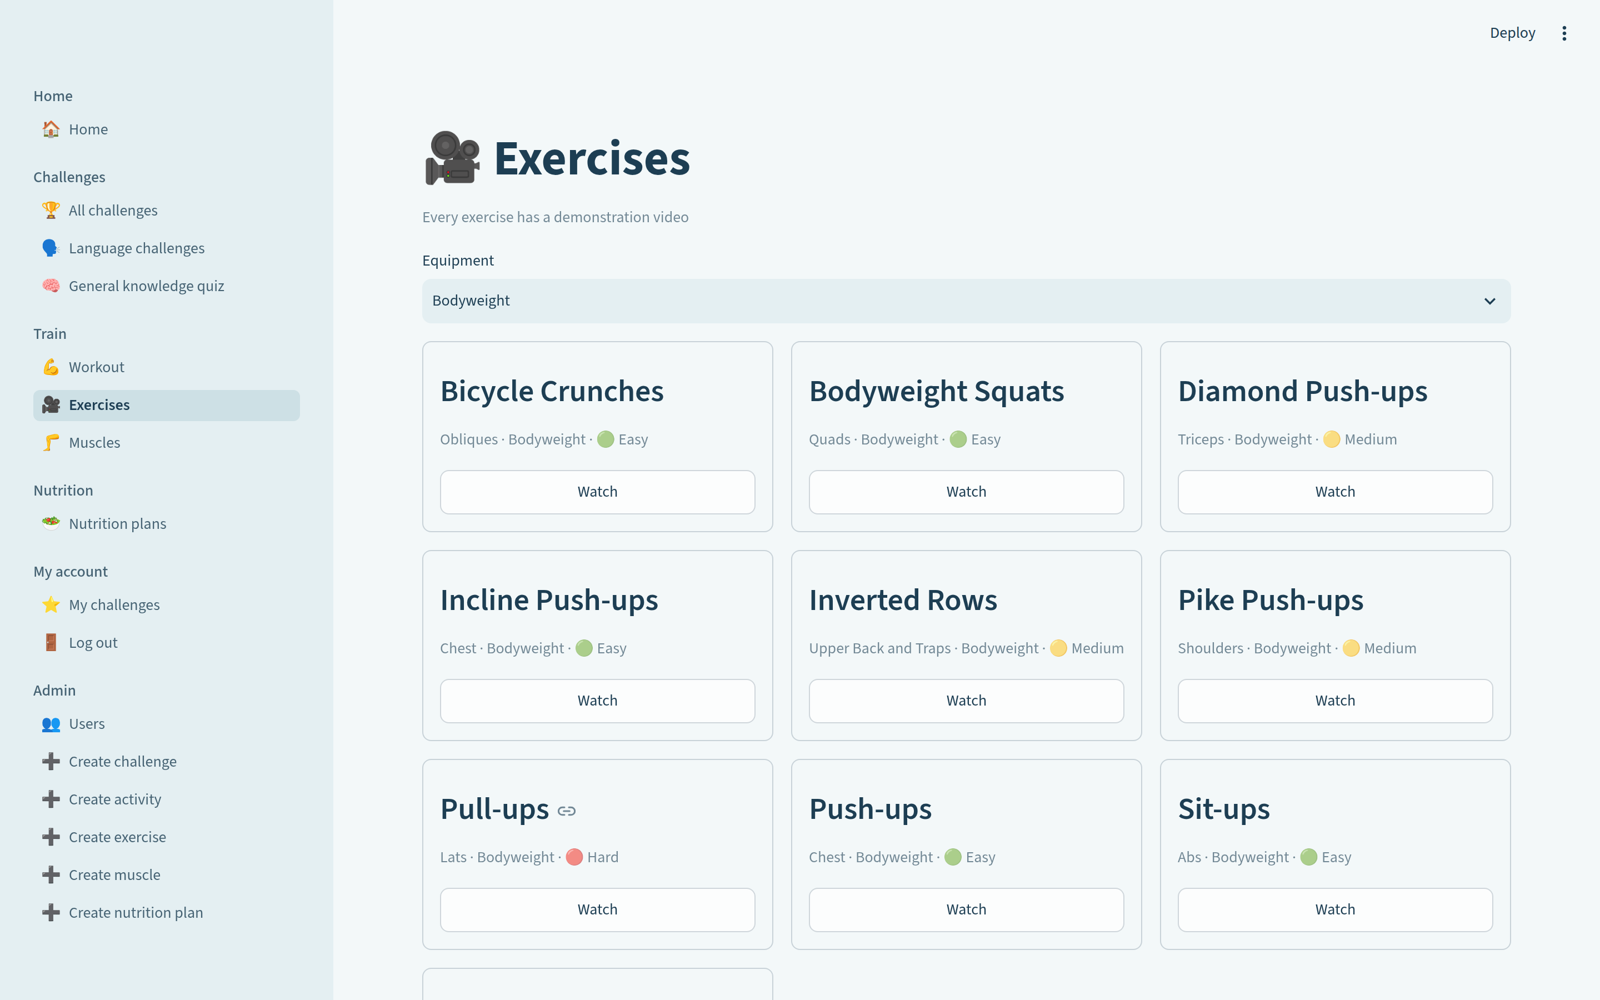
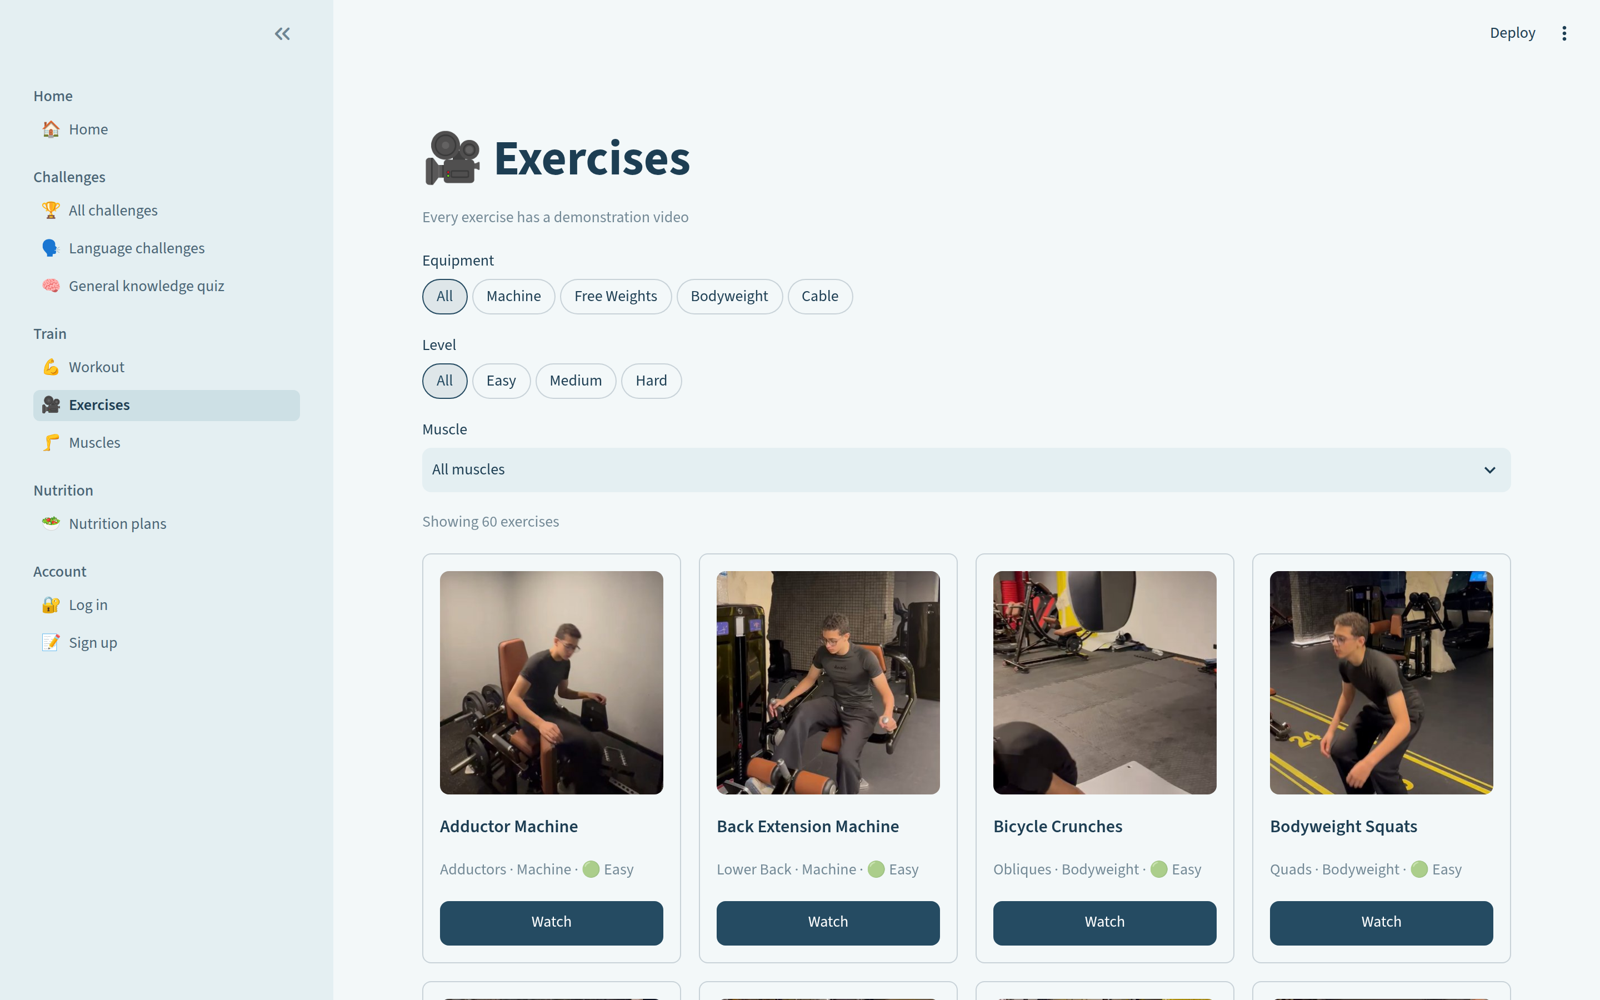
Redesign quiz and exercises pages, one button style
- Quiz: level pills, one question at a time with a progress bar, four
  answer buttons, right/wrong straight away, then score, review and
  Play again.
- Exercises: square picture cards (4 per row) from a frame of each
  video, pills for equipment and level, a muscle filter.
- New exercises.thumbnail_url column, filled in the seed; Create
  exercise gets a Thumbnail file box.
- Every button is the same filled teal and full width.
- Docs and screenshots updated.

closes #15

diff --git a/app_pages/general_knowledge.py b/app_pages/general_knowledge.py
@@ -6,6 +6,7 @@ from assets.config import DATABASE_PATH
 QUESTIONS_PER_QUIZ = 10
 # Score this many or more and you get balloons.
 GREAT_SCORE = 7
+LETTERS = ["A", "B", "C", "D"]
 
 
 def load_new_quiz(level):
@@ -23,71 +24,94 @@ def load_new_quiz(level):
         limit ?
     """, (level, QUESTIONS_PER_QUIZ)).fetchall()
     conn.close()
-    # Forget the answers from the last round.
-    for key in list(st.session_state.keys()):
-        if key.startswith("answer_"):
-            del st.session_state[key]
     st.session_state.quiz_level = level
     st.session_state.quiz_questions = questions
-    st.session_state.quiz_submitted = False
+    st.session_state.quiz_number = 0      # which question you are on (0 is the first)
+    st.session_state.quiz_answers = []    # the letter you picked for each question
+    st.session_state.quiz_just_finished = False
 
 
 st.title("🧠 General knowledge quiz")
-st.caption("Answer the questions, then see your score")
+st.caption("One question at a time. Pick an answer and see if you are right.")
 
-level = st.radio("Choose a level", ["Easy", "Medium", "Hard"], horizontal=True)
+level = st.pills("Level", ["Easy", "Medium", "Hard"], default="Easy", required=True)
 
-# A new level, or the very first visit, gets a fresh set of questions.
+# A new level, or the very first visit, starts a fresh quiz.
 if st.session_state.get("quiz_level") != level:
     load_new_quiz(level)
 
 questions = st.session_state.quiz_questions
+number = st.session_state.quiz_number
+answers = st.session_state.quiz_answers
 
 if len(questions) == 0:
     st.info("There are no questions for this level yet.")
     st.stop()
 
-with st.form("quiz"):
-    for question in questions:
-        options = [
-            "A. " + question["option_a"],
-            "B. " + question["option_b"],
-            "C. " + question["option_c"],
-            "D. " + question["option_d"],
-        ]
-        st.radio(question["question"], options, index=None, key=f"answer_{question['id']}")
-    submitted = st.form_submit_button("Submit answers", type="primary", width="stretch")
+if number < len(questions):
+    # Still answering: show one question.
+    question = questions[number]
+    answered = len(answers) > number
+    st.progress(number / len(questions), text=f"Question {number + 1} of {len(questions)}")
 
-if submitted:
-    st.session_state.quiz_submitted = True
+    with st.container(border=True):
+        st.subheader(question["question"])
+        cols = st.columns(2)
+        place = 0
+        for letter in LETTERS:
+            option = question["option_" + letter.lower()]
+            with cols[place % 2]:
+                # The buttons lock after you answer, so you can't change your mind.
+                if st.button(letter + ". " + option, key=f"pick_{question['id']}_{letter}",
+                             disabled=answered, type="primary", width="stretch"):
+                    # "answers" is the list kept in session_state, so this remembers your pick.
+                    answers.append(letter)
+                    st.rerun()
+            place = place + 1
 
-if st.session_state.quiz_submitted:
-    score = 0
-    for question in questions:
-        answer = st.session_state.get(f"answer_{question['id']}")
-        # An answer looks like "B. Paris", so its first letter is the choice.
-        if answer is not None and answer[0] == question["correct_answer"]:
-            score = score + 1
-
-    st.metric("Score", f"{score} / {len(questions)}")
-    if submitted and score >= GREAT_SCORE:
-        st.balloons()
-
-    for question in questions:
-        answer = st.session_state.get(f"answer_{question['id']}")
+    if answered:
         correct_letter = question["correct_answer"]
         correct_text = question["option_" + correct_letter.lower()]
+        if answers[number] == correct_letter:
+            st.success("✅ Right! " + correct_letter + ". " + correct_text + " is correct.")
+        else:
+            st.error("❌ Not quite. The answer is " + correct_letter + ". " + correct_text + ".")
+
+        if number + 1 < len(questions):
+            next_label = "Next question →"
+        else:
+            next_label = "See my score →"
+        if st.button(next_label, type="primary", width="stretch"):
+            st.session_state.quiz_number = number + 1
+            if number + 1 == len(questions):
+                st.session_state.quiz_just_finished = True
+            st.rerun()
+else:
+    # All questions answered: show the score and what you got right.
+    score = 0
+    for place in range(len(questions)):
+        if answers[place] == questions[place]["correct_answer"]:
+            score = score + 1
+
+    st.metric("Your score", f"{score} / {len(questions)}")
+    # Balloons only once, right after the last question.
+    if st.session_state.quiz_just_finished:
+        if score >= GREAT_SCORE:
+            st.balloons()
+        st.session_state.quiz_just_finished = False
+
+    for place in range(len(questions)):
+        question = questions[place]
+        correct_letter = question["correct_answer"]
+        picked_letter = answers[place]
         with st.container(border=True):
-            if answer is not None and answer[0] == correct_letter:
+            if picked_letter == correct_letter:
                 st.write("✅ " + question["question"])
             else:
                 st.write("❌ " + question["question"])
-            if answer is None:
-                st.write("Your answer: not answered")
-            else:
-                st.write("Your answer: " + answer)
-            st.write("Correct answer: " + correct_letter + ". " + correct_text)
+            st.write("Your answer: " + picked_letter + ". " + question["option_" + picked_letter.lower()])
+            st.write("Correct answer: " + correct_letter + ". " + question["option_" + correct_letter.lower()])
 
-if st.button("New quiz", width="stretch"):
-    load_new_quiz(level)
-    st.rerun()
+    if st.button("Play again", type="primary", width="stretch"):
+        load_new_quiz(level)
+        st.rerun()

diff --git a/app_pages/view_exercise.py b/app_pages/view_exercise.py
@@ -3,42 +3,60 @@ import streamlit as st
 from assets.config import DATABASE_PATH, LEVEL_ICONS
 
 EQUIPMENT_CHOICES = ["All", "Machine", "Free Weights", "Bodyweight", "Cable"]
+LEVEL_CHOICES = ["All", "Easy", "Medium", "Hard"]
 
 st.title("🎥 Exercises")
 st.caption("Every exercise has a demonstration video")
 
-# The Workout page may have picked an equipment type already (it sets "equipment_filter").
-equipment = st.selectbox("Equipment", EQUIPMENT_CHOICES, key="equipment_filter")
-
 conn = sqlite3.connect(DATABASE_PATH)
 conn.execute("PRAGMA foreign_keys = ON")
 conn.row_factory = sqlite3.Row
-if equipment == "All":
-    exercises = conn.execute("""
-        select exercises.*, muscles.name as muscle_name
-        from exercises join muscles on muscles.id = exercises.muscle_id
-        order by exercises.name
-    """).fetchall()
-else:
-    exercises = conn.execute("""
-        select exercises.*, muscles.name as muscle_name
-        from exercises join muscles on muscles.id = exercises.muscle_id
-        where exercises.equipment = ?
-        order by exercises.name
-    """, (equipment,)).fetchall()
+exercises = conn.execute("""
+    select exercises.*, muscles.name as muscle_name
+    from exercises join muscles on muscles.id = exercises.muscle_id
+    order by exercises.name
+""").fetchall()
+muscles = conn.execute("select name from muscles order by name").fetchall()
 conn.close()
 
-if len(exercises) == 0:
-    st.info("No exercises for this equipment yet.")
+# The Workout page may have picked an equipment type already (it sets "equipment_filter").
+if "equipment_filter" not in st.session_state:
+    st.session_state.equipment_filter = "All"
+equipment = st.pills("Equipment", EQUIPMENT_CHOICES, required=True, key="equipment_filter")
+level = st.pills("Level", LEVEL_CHOICES, default="All", required=True)
 
-cols = st.columns(3)
-number = 0
+muscle_choices = ["All muscles"]
+for muscle in muscles:
+    muscle_choices.append(muscle["name"])
+muscle_name = st.selectbox("Muscle", muscle_choices)
+
+# Keep only the exercises that match every filter.
+shown = []
 for exercise in exercises:
-    with cols[number % 3]:
+    if equipment != "All" and exercise["equipment"] != equipment:
+        continue
+    if level != "All" and exercise["difficulty"] != level:
+        continue
+    if muscle_name != "All muscles" and exercise["muscle_name"] != muscle_name:
+        continue
+    shown.append(exercise)
+
+st.caption(f"Showing {len(shown)} exercises")
+if len(shown) == 0:
+    st.info("No exercises match these filters. Try picking All.")
+
+cols = st.columns(4)
+number = 0
+for exercise in shown:
+    with cols[number % 4]:
         with st.container(border=True):
-            st.subheader(exercise["name"])
+            if exercise["thumbnail_url"]:
+                st.image(exercise["thumbnail_url"], width="stretch")
+            else:
+                st.caption("No picture yet")
+            st.markdown(f"**{exercise['name']}**")
             st.caption(f"{exercise['muscle_name']} · {exercise['equipment']} · {LEVEL_ICONS[exercise['difficulty']]} {exercise['difficulty']}")
-            if st.button("Watch", key=f"watch_{exercise['id']}", width="stretch"):
+            if st.button("Watch", key=f"watch_{exercise['id']}", type="primary", width="stretch"):
                 st.session_state.selected_exercise_id = exercise["id"]
                 st.switch_page("app_pages/exercise_details.py")
     number = number + 1

diff --git a/app_pages/home.py b/app_pages/home.py
@@ -8,19 +8,19 @@ with col1:
     st.subheader("🏋 Sports")
     st.image("assets/sport_challenge.png", width="stretch", caption="Stay fit and active")
     st.write("Daily physical activities to boost your energy and improve your fitness level.")
-    if st.button("Start sports challenge", width="stretch"):
+    if st.button("Start sports challenge", type="primary", width="stretch"):
         st.switch_page("app_pages/view_challenges.py")
 with col2:
     st.subheader("🗣 Language")
     st.image("assets/language_challenge.png", width="stretch", caption="Expand your vocabulary")
     st.write("Daily words and phrases in English, French and German.")
-    if st.button("Start language challenge", width="stretch"):
+    if st.button("Start language challenge", type="primary", width="stretch"):
         st.switch_page("app_pages/language_challenge.py")
 with col3:
     st.subheader("🧠 General knowledge")
     st.image("assets/General-Knowledge.jpg", width="stretch", caption="Expand your knowledge")
     st.write("Daily facts and trivia to boost your general knowledge.")
-    if st.button("Start the quiz", width="stretch"):
+    if st.button("Start the quiz", type="primary", width="stretch"):
         st.switch_page("app_pages/general_knowledge.py")
 
 st.divider()
@@ -28,10 +28,10 @@ st.divider()
 st.subheader("More ways to train")
 col1, col2 = st.columns(2)
 with col1:
-    if st.button("🏋 Workout by equipment", width="stretch"):
+    if st.button("🏋 Workout by equipment", type="primary", width="stretch"):
         st.switch_page("app_pages/workout.py")
 with col2:
-    if st.button("💪 See all exercises", width="stretch"):
+    if st.button("💪 See all exercises", type="primary", width="stretch"):
         st.switch_page("app_pages/view_exercise.py")
 
 st.markdown("""

diff --git a/app_pages/create_exercise.py b/app_pages/create_exercise.py
@@ -24,6 +24,7 @@ with col1:
 with col2:
     difficulty = st.selectbox("Difficulty", ["Easy", "Medium", "Hard"])
     video_url = st.text_input("Video file", placeholder="videos/pushups.mp4")
+    thumbnail_url = st.text_input("Thumbnail file", placeholder="assets/thumbnails/pushups.jpg")
 description = st.text_area("Description", height=150)
 
 if st.button("Create exercise", type="primary", width="stretch"):
@@ -33,8 +34,8 @@ if st.button("Create exercise", type="primary", width="stretch"):
         conn = sqlite3.connect(DATABASE_PATH)
         conn.execute("PRAGMA foreign_keys = ON")
         conn.execute(
-            "insert into exercises (muscle_id, name, description, equipment, difficulty, video_url) values (?, ?, ?, ?, ?, ?)",
-            (muscle_ids[muscle_name], name, description, equipment, difficulty, video_url),
+            "insert into exercises (muscle_id, name, description, equipment, difficulty, video_url, thumbnail_url) values (?, ?, ?, ?, ?, ?, ?)",
+            (muscle_ids[muscle_name], name, description, equipment, difficulty, video_url, thumbnail_url),
         )
         conn.commit()
         conn.close()

diff --git a/app_pages/view_challenges.py b/app_pages/view_challenges.py
@@ -29,7 +29,7 @@ for challenge in challenges:
         with st.container(border=True):
             st.subheader(challenge["name"])
             st.caption(f"{challenge['category']} · {challenge['duration']} days · {challenge['activity_count']} activities")
-            if st.button("Open", key=f"open_{challenge['id']}", width="stretch"):
+            if st.button("Open", key=f"open_{challenge['id']}", type="primary", width="stretch"):
                 st.session_state.selected_challenge_id = challenge["id"]
                 st.switch_page("app_pages/challenge_details.py")
     number = number + 1

diff --git a/app_pages/view_nutrition_plan.py b/app_pages/view_nutrition_plan.py
@@ -42,7 +42,7 @@ for plan in plans:
             if plan["id"] == my_plan_id:
                 st.success("This is your plan.")
             elif "user_id" in st.session_state:
-                if st.button("Choose this plan", key=f"choose_{plan['id']}", width="stretch"):
+                if st.button("Choose this plan", key=f"choose_{plan['id']}", type="primary", width="stretch"):
                     # Every user has one plan, so remove the old one before saving the new one.
                     conn = sqlite3.connect(DATABASE_PATH)
                     conn.execute("PRAGMA foreign_keys = ON")

diff --git a/app_pages/workout.py b/app_pages/workout.py
@@ -19,7 +19,7 @@ for equipment in EQUIPMENT_TYPES:
             st.image(equipment[1], width="stretch")
             st.subheader(equipment[2])
             st.caption(equipment[3])
-            if st.button("Show exercises", key=f"show_{equipment[0]}", width="stretch"):
+            if st.button("Show exercises", key=f"show_{equipment[0]}", type="primary", width="stretch"):
                 # The Exercises page reads this to show only this equipment.
                 st.session_state.equipment_filter = equipment[0]
                 st.switch_page("app_pages/view_exercise.py")

diff --git a/app_pages/language_challenge.py b/app_pages/language_challenge.py
@@ -38,7 +38,7 @@ for challenge in challenges:
         st.image(get_challenge_image(challenge["name"], challenge["category"]), width="stretch")
         st.subheader(challenge["name"])
         st.caption(f"{challenge['activity_count']} activities")
-        if st.button("Open", key=f"open_{challenge['id']}", width="stretch"):
+        if st.button("Open", key=f"open_{challenge['id']}", type="primary", width="stretch"):
             st.session_state.selected_challenge_id = challenge["id"]
             st.switch_page("app_pages/challenge_details.py")
     number = number + 1

diff --git a/app_pages/view_muscles.py b/app_pages/view_muscles.py
@@ -32,6 +32,6 @@ for muscle in muscles:
                 st.write(f"**Ends at:** {muscle['insertion'] or 'unknown'}")
                 st.write(f"**Type:** {muscle['muscle_type'] or 'unknown'}")
                 st.write(f"**Difficulty to train:** {muscle['difficulty_to_train'] or 'unknown'}")
-            if st.button("Find a workout", key=f"workout_{muscle['id']}", width="stretch"):
+            if st.button("Find a workout", key=f"workout_{muscle['id']}", type="primary", width="stretch"):
                 st.switch_page("app_pages/workout.py")
     number = number + 1

diff --git a/app_pages/my_challenges.py b/app_pages/my_challenges.py
@@ -29,7 +29,7 @@ if len(challenges) == 0:
 for challenge in challenges:
     with st.container(border=True):
         st.markdown(f"**{challenge['name']}** · {challenge['category']} · {challenge['duration']} days")
-        if st.button("Open", key=f"open_{challenge['id']}"):
+        if st.button("Open", key=f"open_{challenge['id']}", type="primary", width="stretch"):
             st.session_state.selected_challenge_id = challenge["id"]
             st.switch_page("app_pages/challenge_details.py")
 

diff --git a/app_pages/challenge_details.py b/app_pages/challenge_details.py
@@ -73,7 +73,7 @@ else:
     st.info("Log in to join this challenge.")
 
 if challenge["category"] == "General Knowledge":
-    if st.button("🧠 Play the quiz", width="stretch"):
+    if st.button("🧠 Play the quiz", type="primary", width="stretch"):
         st.switch_page("app_pages/general_knowledge.py")
 
 st.divider()

diff --git a/app_pages/exercise_details.py b/app_pages/exercise_details.py
@@ -38,5 +38,5 @@ with facts_column:
     if exercise["description"]:
         st.write(exercise["description"])
 
-if st.button("Back to exercises", width="stretch"):
+if st.button("Back to exercises", type="primary", width="stretch"):
     st.switch_page("app_pages/view_exercise.py")
